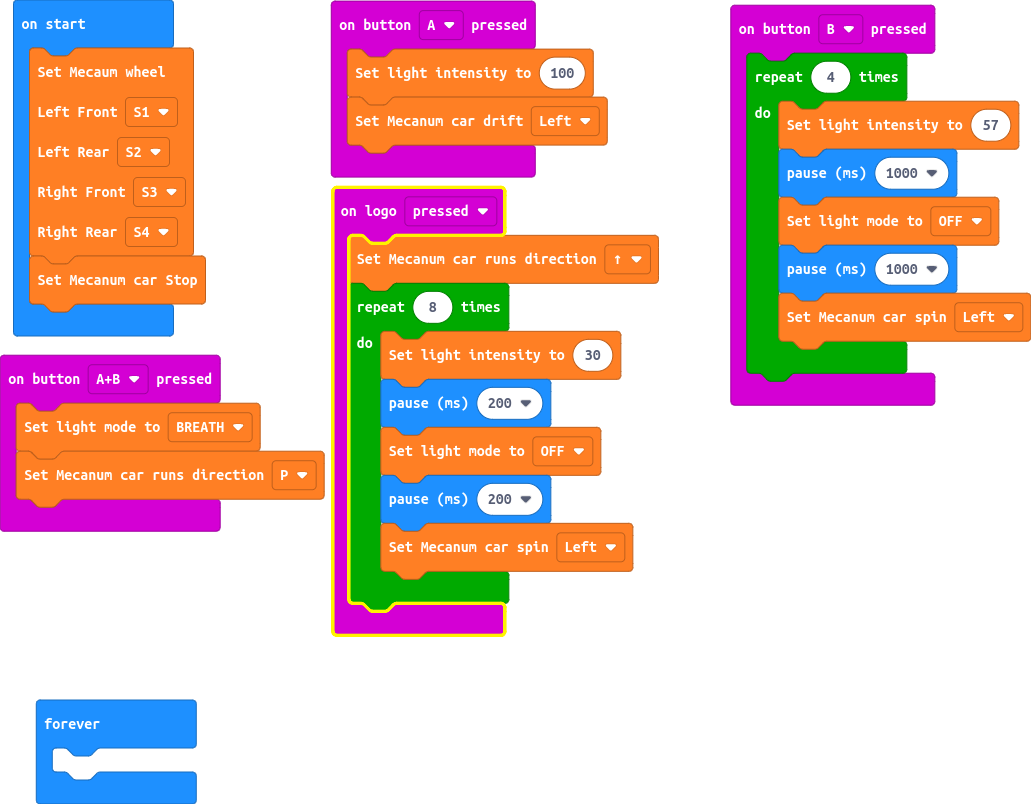
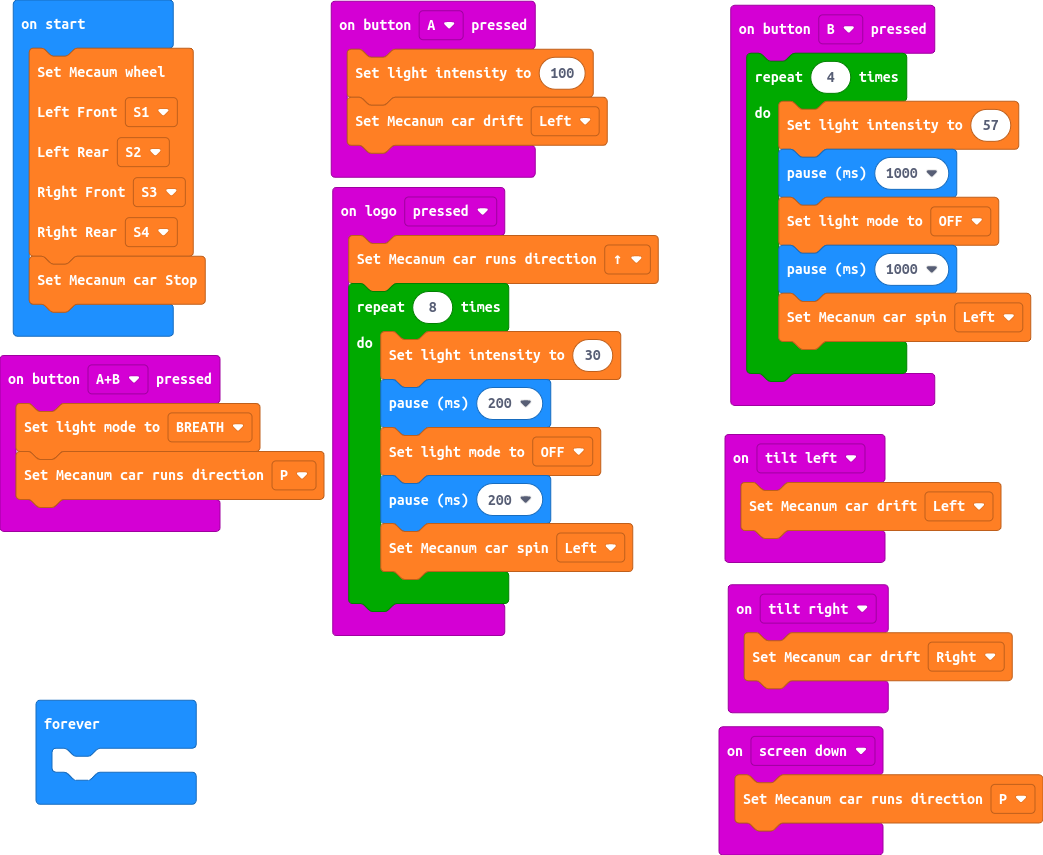
Update main.blocks, main.ts

diff --git a/main.ts b/main.ts
@@ -2,6 +2,12 @@ input.onButtonPressed(Button.A, function () {
     wuKong.lightIntensity(100)
     wuKong.mecanumDrift(wuKong.TurnList.Left)
 })
+input.onGesture(Gesture.TiltLeft, function () {
+    wuKong.mecanumDrift(wuKong.TurnList.Left)
+})
+input.onGesture(Gesture.ScreenDown, function () {
+    wuKong.mecanumRun(wuKong.RunList.stop)
+})
 input.onButtonPressed(Button.AB, function () {
     wuKong.setLightMode(wuKong.LightMode.BREATH)
     wuKong.mecanumRun(wuKong.RunList.stop)
@@ -14,6 +20,9 @@ input.onButtonPressed(Button.B, function () {
         basic.pause(1000)
         wuKong.mecanumSpin(wuKong.TurnList.Left)
     }
+})
+input.onGesture(Gesture.TiltRight, function () {
+    wuKong.mecanumDrift(wuKong.TurnList.Right)
 })
 input.onLogoEvent(TouchButtonEvent.Pressed, function () {
     wuKong.mecanumRun(wuKong.RunList.Front)
